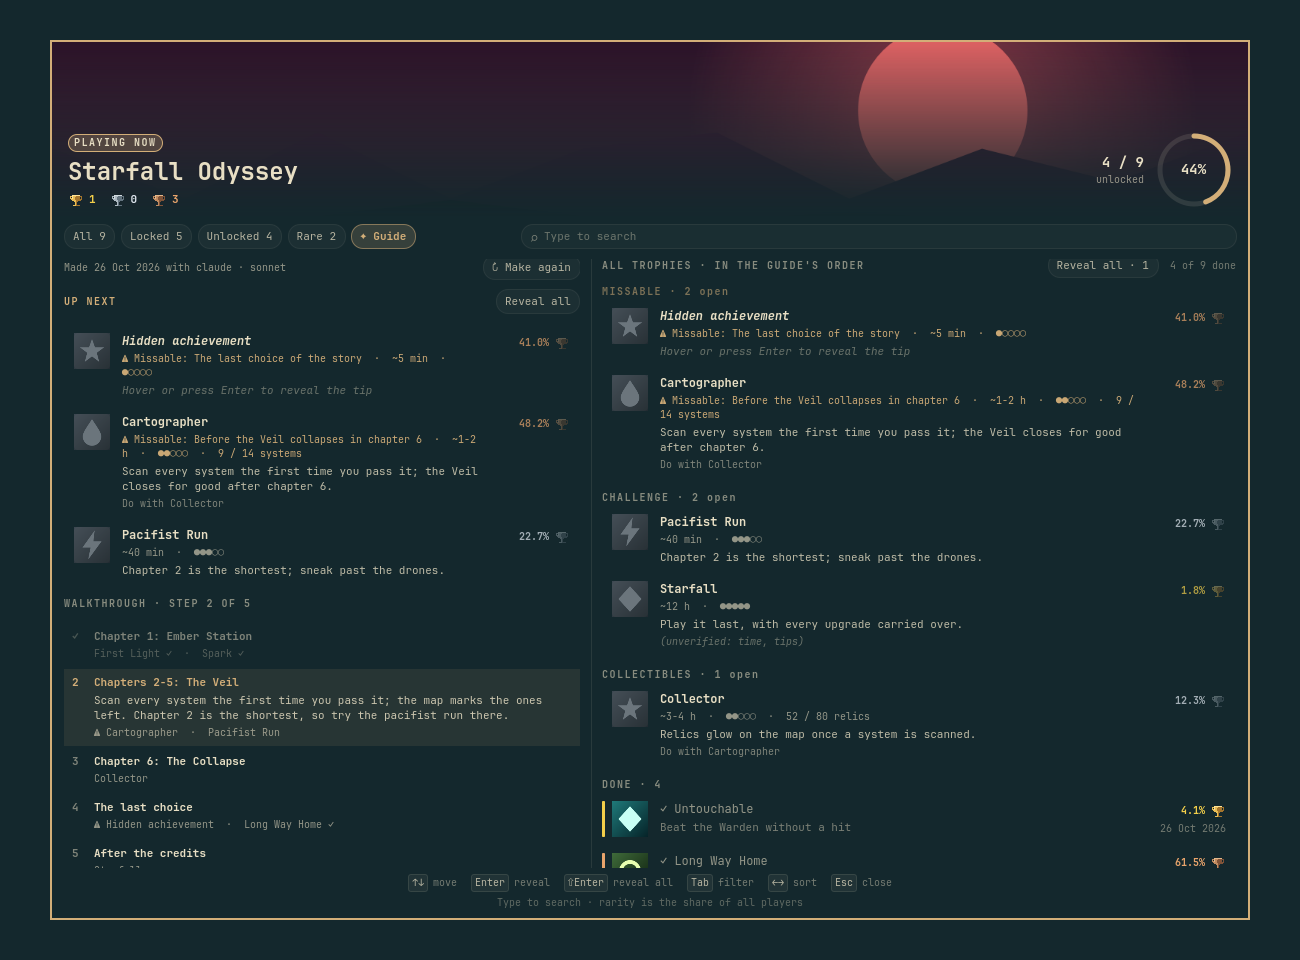
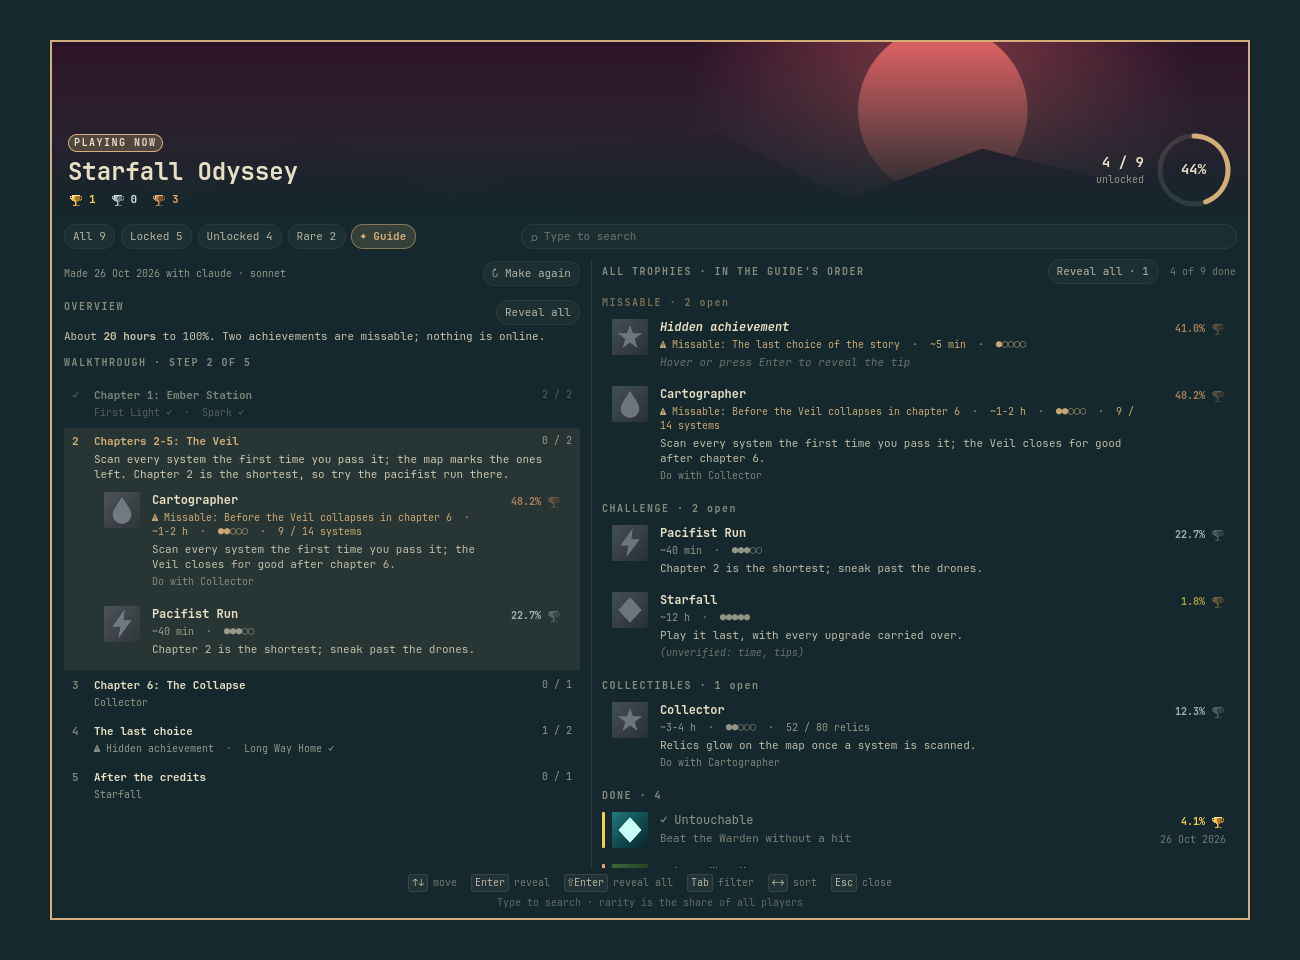
Lead the Guide tab with the walkthrough's trophies
The owner found the overview, route and walkthrough saying the same
things, and wanted the walkthrough to track every trophy. With a
walkthrough, the Guide tab shows the overview, then each step with its
progress and its trophies as full rows (done ones ticked), then the open
trophies no step holds; Up next, route and combos show only without one.
Steps map names through every achievement, so unlocked trophies, never
classified, appear in their step.

diff --git a/TrackerView.qml b/TrackerView.qml
@@ -99,6 +99,15 @@ Item {
   property var stepOpen: ({})
   readonly property var walkSteps: guide && Array.isArray(guide.walkthrough) ? guide.walkthrough : []
   readonly property int currentStep: guide && guide.step >= 0 ? guide.step : -1
+  readonly property bool walked: hasGuide && walkSteps.length > 0
+  // Open trophies of the guide that no step holds, listed after the steps
+  // so none is lost track of.
+  readonly property var unplaced: {
+    if (!walked) return []
+    var placed = {}
+    walkSteps.forEach(function(s) { (s.achievements || []).forEach(function(a) { placed[a] = true }) })
+    return (guide.order || []).filter(function(api) { return !placed[api] && byApi[api] && !guideDone(api) })
+  }
   // The agent and model picker; folded away under a made guide.
   property bool makerOpen: false
   // Which Make-guide picker is unfolded: "agent", "model", "effort" or "".
@@ -495,6 +504,10 @@ Item {
 
   // A walkthrough step's achievements in one line: a hidden one stays
   // secret like its row, a missable one is marked, a done one ticked.
+  function stepDone(step) {
+    return (step.achievements || []).filter(function(api) { return guideDone(api) }).length
+  }
+
   function stepNames(step) {
     var missables = step.missables || []
     return (step.achievements || []).map(function(api) {
@@ -2187,7 +2200,7 @@ Item {
         Item {
           width: parent.width
           height: Math.max(upNextTitle.implicitHeight, upNextReveal.visible ? upNextReveal.height : 0)
-          visible: root.hasGuide && (root.guide.next || []).length > 0 && !root.appliedSearch
+          visible: root.hasGuide && (root.guide.next || []).length > 0 && !root.appliedSearch && !root.walked
           SectionLabel {
             id: upNextTitle
             anchors.verticalCenter: parent.verticalCenter
@@ -2208,7 +2221,7 @@ Item {
         }
         Column {
           width: parent.width
-          visible: root.hasGuide && !root.appliedSearch
+          visible: root.hasGuide && !root.appliedSearch && !root.walked
           spacing: Commons.Style.space(2)
           Repeater {
             model: root.hasGuide ? root.guide.next || [] : []
@@ -2216,8 +2229,34 @@ Item {
           }
         }
 
-        // The walkthrough (ADR 17): the game's chapters in play order, the
-        // current one open; a click opens another.
+        // With a walkthrough, the overview leads and the steps carry the
+        // rest: route, combos and Up next said the same things again.
+        Item {
+          width: parent.width
+          height: walkOverview.height
+          visible: root.walked && !root.appliedSearch && walkOverview.text !== ""
+          Column {
+            id: walkOverview
+            property string text: root.guide && root.guide.sections ? root.guide.sections.overview || "" : ""
+            width: parent.width
+            spacing: Commons.Style.space(4)
+            Row {
+              width: parent.width
+              SectionLabel { text: "OVERVIEW"; width: parent.width - walkReveal.width }
+              Chip {
+                id: walkReveal
+                visible: root.secretCount > 0
+                chosen: root.revealAll
+                text: root.revealAll ? "Hide secrets" : "Reveal all"
+                onClicked: root.toggleRevealAll()
+              }
+            }
+            Prose { width: parent.width; text: root.safeMarkdown(walkOverview.text) }
+          }
+        }
+
+        // The walkthrough (ADR 17): the game's chapters in play order, each
+        // with its trophies, the current one open; a click opens another.
         SectionLabel {
           visible: root.hasGuide && root.walkSteps.length > 0 && !root.appliedSearch
           text: "WALKTHROUGH" + (root.guide && root.guide.step >= 0 ? " · STEP " + (root.guide.step + 1) + " OF " + root.walkSteps.length : "")
@@ -2243,8 +2282,7 @@ Item {
               radius: Commons.Style.cornerRadius
               color: here ? Qt.alpha(Commons.Color.accent, 0.10) : walkHover.hovered ? Commons.Style.hoverFill : "transparent"
               opacity: passed && !open ? 0.5 : 1
-              HoverHandler { id: walkHover; cursorShape: Qt.PointingHandCursor }
-              TapHandler { onTapped: root.toggleStep(walkRow.index) }
+              HoverHandler { id: walkHover }
               Text {
                 textFormat: Text.PlainText
                 id: walkNumber
@@ -2269,7 +2307,19 @@ Item {
                   textFormat: Text.PlainText
                   width: parent.width
                   wrapMode: Text.Wrap
+                  rightPadding: walkCount.implicitWidth + Commons.Style.space(8)
                   text: walkRow.modelData.title
+                  // Only the title folds: a click on a trophy row finds it
+                  // in the list instead.
+                  HoverHandler { cursorShape: Qt.PointingHandCursor }
+                  TapHandler { onTapped: root.toggleStep(walkRow.index) }
+                  Caption {
+                    id: walkCount
+                    anchors.right: parent.right
+                    anchors.top: parent.top
+                    visible: walkRow.modelData.achievements.length > 0
+                    text: root.stepDone(walkRow.modelData) + " / " + walkRow.modelData.achievements.length
+                  }
                   color: walkRow.here ? Commons.Color.accent : root.foreground
                   font.family: Commons.Style.font.family
                   font.pixelSize: Commons.Style.font.bodySmall
@@ -2283,9 +2333,14 @@ Item {
                 Caption {
                   textFormat: Text.PlainText
                   width: parent.width
-                  wrapMode: walkRow.open ? Text.Wrap : Text.NoWrap
-                  visible: text !== ""
+                  visible: !walkRow.open && text !== ""
                   text: root.stepNames(walkRow.modelData)
+                }
+                // Open, a step lists its trophies in full, done ones too,
+                // so every one can be followed where the game asks for it.
+                Repeater {
+                  model: walkRow.open ? walkRow.modelData.achievements : []
+                  delegate: GuideRow { required property string modelData; api: modelData }
                 }
                 Caption {
                   textFormat: Text.PlainText
@@ -2299,8 +2354,22 @@ Item {
           }
         }
 
+        SectionLabel {
+          visible: root.unplaced.length > 0 && !root.appliedSearch
+          text: "NOT IN A STEP · " + root.unplaced.length
+        }
+        Column {
+          width: parent.width
+          visible: root.unplaced.length > 0 && !root.appliedSearch
+          spacing: Commons.Style.space(2)
+          Repeater {
+            model: root.appliedSearch ? [] : root.unplaced
+            delegate: GuideRow { required property string modelData; api: modelData }
+          }
+        }
+
         Repeater {
-          model: root.hasGuide && !root.appliedSearch
+          model: root.hasGuide && !root.appliedSearch && !root.walked
                  ? [{ key: "overview", title: "OVERVIEW" }, { key: "route", title: "RECOMMENDED ROUTE" },
                     { key: "missables", title: "MISSABLES" }, { key: "combos", title: "COMBOS" }] : []
           delegate: Column {

diff --git a/tests/test_guides.py b/tests/test_guides.py
@@ -107,6 +107,17 @@ class GuideAnswer(unittest.TestCase):
         self.assertEqual(guides.current_step(steps), 1)
         self.assertEqual(guides.current_step(steps[:1]), -1)
 
+    def test_walkthrough_maps_unlocked_trophies_not_in_the_plan(self):
+        with tempfile.TemporaryDirectory() as d:
+            guides.import_guides(SAMPLES, folder=d)
+            path = guides.find_guide('steam', '1', d)
+            plan = guides.load_plan(path)
+            plan['walkthrough'] = [{'title': 'Start', 'achievements': ['First Light']}]
+            with open(guides.plan_path(path), 'w') as f:
+                json.dump(plan, f)
+            out = guides.guide_answer('steam', '1', ACHS, d)
+        self.assertEqual(out['walkthrough'][0]['achievements'], ['A1'])
+
     def test_current_step_follows_the_latest_unlock(self):
         # Regression: MGSV put a player past mission 13 at step 2, where
         # a horse bond was still open.

diff --git a/guides.py b/guides.py
@@ -153,7 +153,11 @@ def guide_answer(store, app, achievements, folder=None):
     name_to_api = {i['name']: api for api, i in items.items()}
     order = [name_to_api[n] for n in plan.get('order', []) if n in name_to_api]
     order += [api for api in items if api not in order]
-    steps = walkthrough_steps(plan, name_to_api, done)
+    # A step names unlocked trophies too, which were never classified, so
+    # it maps through every achievement of the game.
+    every_api = {a['name']: a['api'] for a in achievements}
+    every_api.update(name_to_api)
+    steps = walkthrough_steps(plan, every_api, done)
     return {'store': store, 'app': str(app), 'file': os.path.basename(path),
             'generated': plan.get('generated', 0), 'order': order, 'items': items,
             'sections': plan.get('sections') or {}, 'notes': notes, 'ticks': ticks,

diff --git a/README.md b/README.md
@@ -157,10 +157,13 @@ until you hide them again.
 Anything no source backs says
 "(unverified)". With a guide, the Now tab's **Up next** follows its route.
 
-Under Up next, the **walkthrough** goes through the game's chapters or
-missions in play order, with the achievements to get in each and a ⚠ on
-the ones you lose by moving on. The step you're on (the first with an
-achievement left) is open; click another to read it
+A guide with a **walkthrough** leads with it, under a short overview: the
+game's chapters or missions in play order, each with its progress
+("1 / 3") and its trophies in full, done ones ticked, a ⚠ on the ones you
+lose by moving on. The step you're on (the first with a trophy left, at
+or after your latest unlock) is open; click a step's title to open or
+fold it. Trophies no step holds follow under **Not in a step**. Without
+a walkthrough, Up next and the route show as before
 ([ADR 17](docs/adr/0017-walkthrough-is-a-maker-stage.md)). A guide made
 before 0.7.0 has none: the tracker says "older maker", and **Make again**
 adds one.

diff --git a/CHANGELOG.md b/CHANGELOG.md
@@ -11,9 +11,10 @@
   and skips a blog's lists of posts. A guide made before this says so
   next to **Make again**.
 - **Walkthrough**: a guide now goes through the game's chapters or
-  missions in play order, with the achievements to get in each and the
-  missable ones marked, the step you're on open (ADR 17). One more agent
-  call per guide.
+  missions in play order, each with its progress and its trophies in
+  full (done ones too), missable ones marked, the step you're on open
+  (ADR 17). It replaces Up next and the route prose in the Guide tab.
+  One more agent call per guide.
 - **The guide over your game**: Super+Ctrl+G opens the running game's
   guide over it and closes it again, like Steam's Shift+Tab (ADR 16).
   Change it under **Guide key** in Omarchy's plugin settings; a key in
